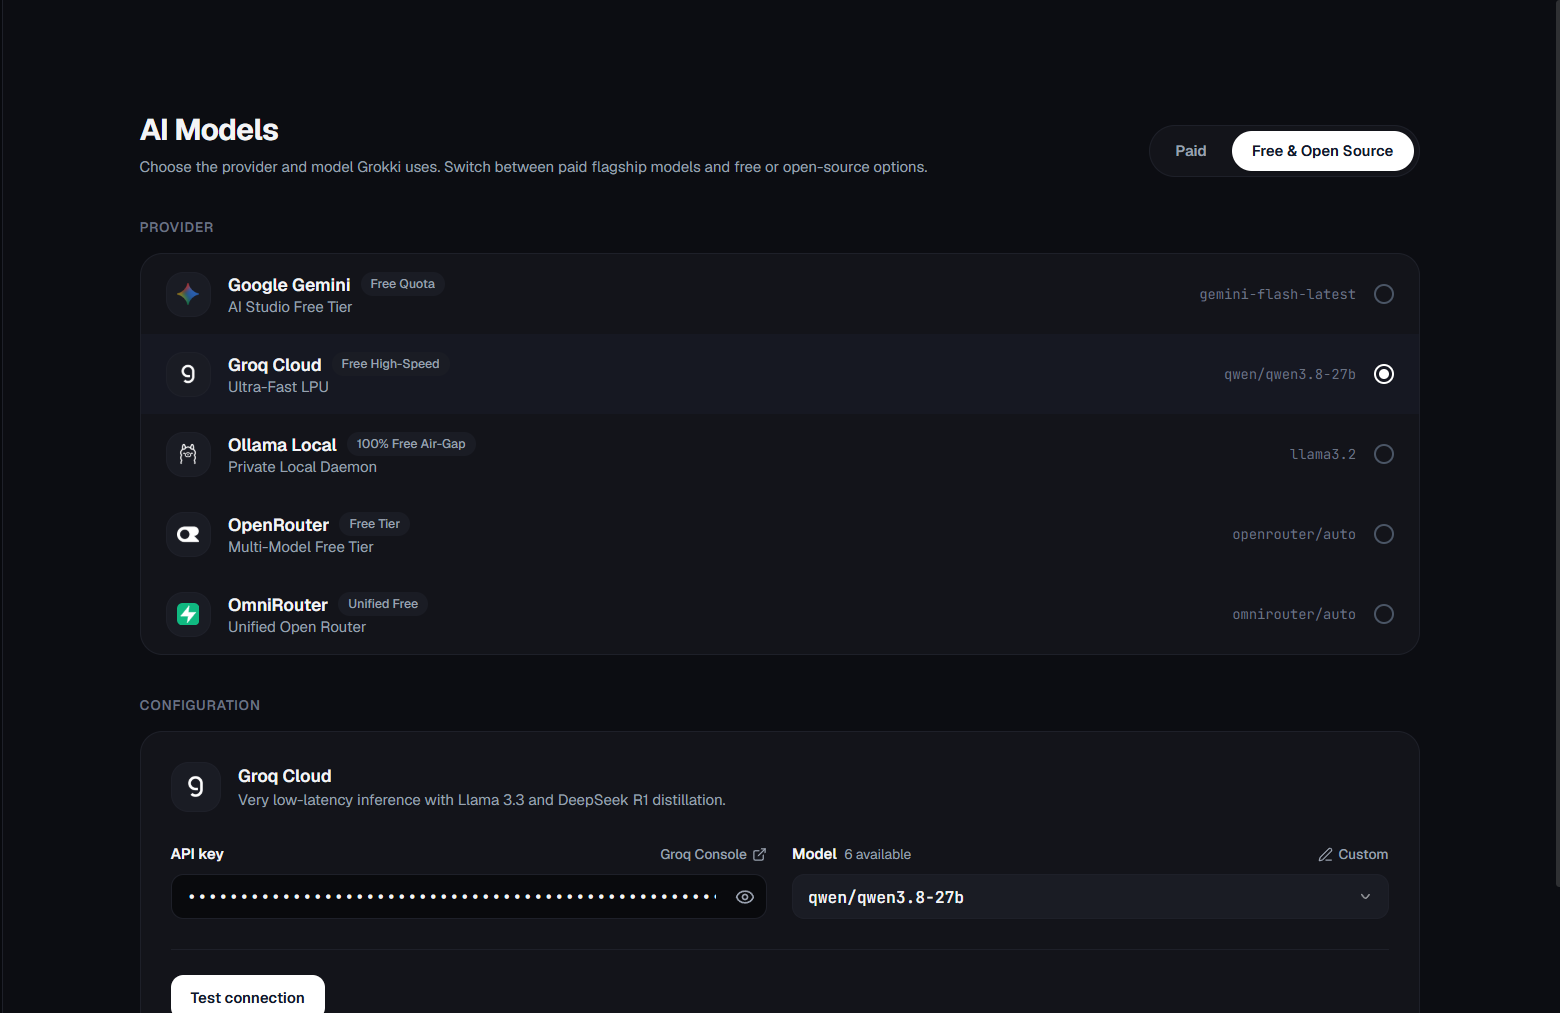
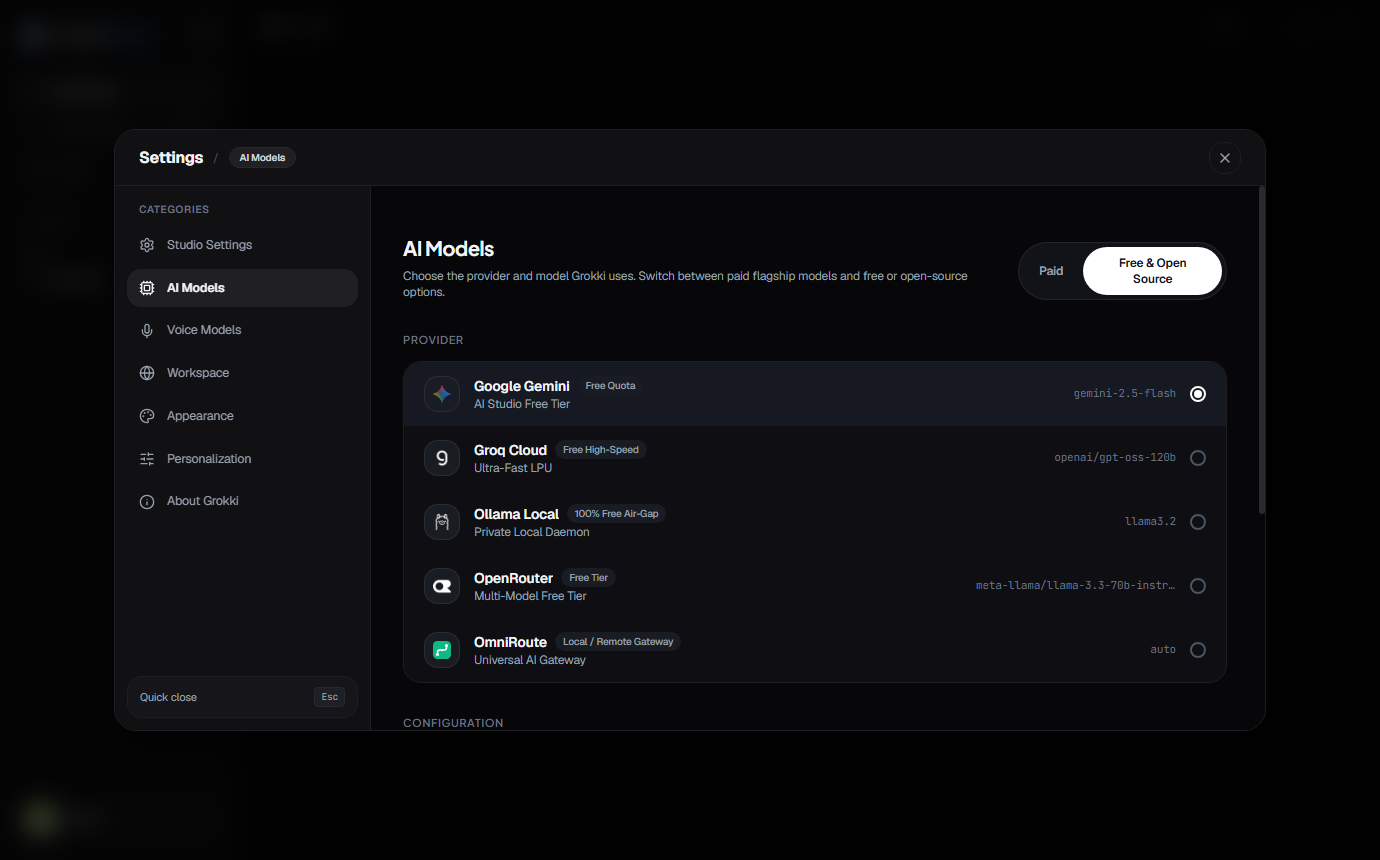
New Changes

diff --git a/README.md b/README.md
@@ -14,7 +14,7 @@
   </p>
 
   <h3>Autonomous AI desktop companion living in an Apple-style Dynamic Island & Top Notch.</h3>
-  <p>Real-time desktop vision, physical OS mouse and keyboard automation, 70+ native Windows tools, and hybrid local/cloud intelligence.<br />Summoned instantly anywhere with Alt+Q or top-edge hover.</p>
+  <p>Real-time desktop vision, physical OS mouse & keyboard automation, 70+ native Windows tools, and hybrid local/cloud intelligence.<br />Summoned instantly anywhere with <code>Alt+Q</code> or top-edge hover.</p>
 
   <p>
     <a href="#features"><strong>Features</strong></a> ·
@@ -35,19 +35,20 @@
 
 ## Overview
 
-Grokki is an autonomous Windows desktop agent designed to live directly at the top of your screen inside a glass Dynamic Island and Top Notch. Rather than existing as an isolated browser chatbot, Grokki has direct physical agency over your operating system: he sees your displays with low-token vision, executes multi-step plans across native applications, and physically drives your mouse and keyboard.
+Grokki is an autonomous Windows desktop agent designed to live directly at the top of your screen inside a glass Dynamic Island and Top Notch. Rather than existing as an isolated browser chatbot, Grokki has direct physical agency over your operating system: he sees your displays with low-token vision, executes multi-step plans across native applications, and physically drives your mouse, keyboard, and background processes.
 
 | Capability | Scope | What it does |
 | :--- | ---: | :--- |
-| **Native UI Automation** | Vercel agent-desktop | Zero-token accessibility tree snapshots, background clicking & typing with stable @ref IDs |
+| **Native UI Automation** | Vercel agent-desktop | Zero-token accessibility tree snapshots, background clicking & typing with stable `@ref` IDs |
 | **System & Desktop Agency** | 20+ tools | Mouse tracking, keyboard injection, audio, window management, screen capture, hardware power |
-| **Hitodama Control Center** | Top Notch & Mobile | Zero-shadow capsule tabs: Volume bar, Studio (Now-Playing Art), Stats, and Power tiles |
-| **P2P Pocket Grokki Mobile** | Local LAN | Zero-cloud QR pairing, summon hopping, cross-device envelope beam, attendance sync |
-| **Workspace Integrations** | 22 tools | Google Workspace, Notion databases, local Obsidian vaults, GitHub CLI |
+| **Hitodama Control Center** | Top Notch & Mobile | Zero-shadow capsule tabs: Controls, Today, Studio (Now-Playing Art), Apps, Games, Wallpaper, Themes, Clipboard, and Stats |
+| **P2P Pocket Grokki Mobile** | Local LAN | Zero-cloud QR pairing, summon hopping, cross-device envelope file beam, attendance sync |
+| **Workspace Integrations** | 25 tools | Google Workspace, Notion databases, local Obsidian vaults, GitHub CLI, and WhatsApp Gateway |
 | **Productivity & Code** | 15 tools | Artifact sandbox canvas, VS Code bug diagnosis, file parsing, document authoring |
-| **Media & Audio** | 10 tools | Spotify, YouTube Music, Apple Music controls, playlist search, lecture synthesis |
+| **Media & Audio** | 12 tools | Spotify, YouTube Music, Apple Music controls, playlist search, lecture synthesis |
 | **Games Hub** | Local Scan | Auto-discovers installed Steam/Epic/Xbox games with free cover art fetching |
-| **Multi-Brain & Grounding** | 9 engines | Dual-battle comparative runs, consensus synthesis, live web grounding |
+| **Multi-Brain & Grounding** | 10 engines | Dual-battle comparative runs, consensus synthesis, live web grounding, local Ollama air-gap |
+| **Voice & Speech Engine** | 4 providers | ElevenLabs, VoiceStudio, Edge TTS, and Grokki Voice with real-time waveform dynamic island |
 
 ---
 
@@ -63,15 +64,20 @@ Grokki natively embeds Vercel's open-source `agent-desktop` engine for determini
 ### Hitodama Top Notch Control Center
 Access essential operating system controls instantly by hovering near the top notch or tapping the island:
 * **Zero-Shadow Capsule Architecture**: Engineered with a strict zero-shadow, high-contrast frosted glass design system that dynamically follows your active theme palette.
-* **4-Tab Unified Control Hub**:
-  * **Controls**: Live OS volume bar capsule with percentage thumb, preset buttons (`25%`, `50%`, `75%`, `MAX`), and quick tiles (`Lock PC`, `Sleep`, `Screenshot`, `Mute Mic`).
+* **9-Tab Unified Control Hub**:
+  * **Controls**: Live OS volume bar capsule with percentage thumb, preset buttons (`25%`, `50%`, `75%`, `MAX`), and quick tiles (`Wi-Fi`, `Bluetooth`, `Audio Output`, `Night Light`, `Dark Mode`, `Speech to Text`).
+  * **Today**: Agenda timeline, upcoming calendar appointments, and quick tasks.
   * **Studio**: Live Windows Media playback detection displaying album art covers, track title, artist, playback status badge, and transport controls.
+  * **Apps**: Fast application launcher categorized by work, code, media, and tools.
+  * **Games**: Installed PC games launcher with auto-fetched poster art.
+  * **Wallpaper**: Instant dynamic wallpaper switcher with blur presets.
+  * **Themes**: Live theme palette selector with instant desktop & mobile sync.
+  * **Clipboard**: Persistent clipboard history with image thumbnail previews, direct one-click paste into active windows, pin/unpin toggles, and deletion.
   * **Stats**: Real-time hardware telemetry: CPU load %, processor model, RAM usage (`used / total GB`), and host system uptime.
-  * **Power**: Clean OS action cards for Lock Screen, Sleep Mode, Sign Out, Restart PC, Shut Down, and Cancel Power.
 
 ### Peer-to-Peer Pocket Grokki Mobile (LAN Companion)
 Bring your autonomous desktop assistant directly to your mobile phone over your local Wi-Fi without third-party servers, cloud relays, or exposed ports:
-* **Hitodama Mobile Overhaul**: Pocket Grokki now renders the full Hitodama Control Center right on your phone (`http://<LAN_IP>:8765`), equipped with `Plus Jakarta Sans`, `JetBrains Mono`, and FontAwesome 6 vector icons.
+* **Hitodama Mobile Overhaul**: Pocket Grokki renders the full Hitodama Control Center right on your phone (`http://<LAN_IP>:8765`), equipped with `Plus Jakarta Sans`, `JetBrains Mono`, and FontAwesome 6 vector icons.
 * **Zero-Cloud P2P LAN Pairing**: Pair your smartphone with your Windows PC in seconds using a dynamic cryptographic QR code or single-click local discovery. All communication is strictly local to your private network.
 * **Cross-Device Summon Hopping**: Teleport Grokki seamlessly between your desktop screen and your mobile device. Summon Grokki directly onto your phone screen or shoot him back onto your Windows desktop Dynamic Island with fluid portal physics.
 * **Animated Envelope File Transfer**: Drag and drop documents, images, or code on desktop into Grokki to package them into an animated envelope and beam them directly to your phone (and vice-versa) for instant offline download and opening.
@@ -82,50 +88,35 @@ Bring your autonomous desktop assistant directly to your mobile phone over your 
 Personalize Grokki Studio, the Dynamic Island, Top Notch, and Pocket Grokki with synchronized theme palettes:
 * **8 Curated Palettes**: `sunset`, `grokki-blue`, `cream`, `jungle`, `sakura`, `cyber`, `arctic`, and `crimson`.
 * **Horizontal Theme Carousel**: Smooth horizontal drag-and-scroll selector in the Appearance settings.
-* **Independent Light / Dark Mode**: Dedicated "None" option allows standard Light and Dark modes without color saturation locks.
+* **Independent Light / Dark Mode**: Dedicated dual-mode support across all modals, search dialogs, and popover menus.
 * **Instant Broadcast**: Switching themes in Grokki Studio broadcasts real-time color updates across the desktop overlay and connected mobile companions.
 
-### Installed Games Hub & Poster Fetcher
-* **Automatic Game Detection**: Automatically scans your Windows PC for installed games across Steam libraries, Epic Games Launcher, Xbox / Microsoft Store apps, and custom game directories.
-* **Live Cover Artwork**: Fetches game posters and capsule art automatically from free game metadata APIs and caches them locally for fast, offline display.
-* **1-Click Launch**: Launch any installed game directly from the Grokki Studio interface.
+### Conversation Timeline & Sleek Recents Divider
+* **Date-Segmented Recents**: Chat history is organized chronologically under `Today`, `Yesterday`, `Previous 7 Days`, and `Older`.
+* **Sleek Visual Dividers**: Beautiful curved branch lines link individual conversation cards to their date clusters.
+* **Fast Keyboard Search (`Ctrl+K`)**: Modal dialog with full-text search, keyboard navigation (`↑`/`↓` and `Enter`), and dual light/dark aesthetics.
+* **Chat Management**: Pin favorite threads to the top, rename conversations inline, and delete old chats with zero clutter.
 
-### Genuine Desktop Blur & Dynamic Island
-Windows cannot natively blur third-party desktop windows behind transparent frameless Electron surfaces. Grokki implements a dedicated GPU-accelerated capture pipeline:
-* On summon (`Alt + Q`), the system snaps your desktop background in the background.
-* Applies a hardware-accelerated Apple-spec Gaussian blur layer (`blur(38px) brightness(0.55) saturate(190%)`).
-* Your wallpaper, active code editor, terminal, and browser blur dynamically behind the island in real time.
-* Dismiss by clicking anywhere outside the interface.
-
-### Physical Mouse and Keyboard Automation
-* Moves the actual Windows OS mouse cursor with smooth easing trajectories.
-* Executes left-clicks, double-clicks, right-clicks, and keystrokes directly into active applications (Notepad, Word, File Explorer, Terminal).
-* Includes safe boundaries and emergency abort shortcut (`Esc`).
-
-### Ultra-Low Token Screen Vision
-* Captures active displays and downscales frames for multimodal models.
-* Cost per screen scan: ~250 tokens via Gemini Flash Vision.
-* Diagnoses compile errors in VS Code, inspects software installation wizards, and reads documents on screen without manual uploads.
-
-### Interactive Artifacts & Code Canvas
-* Sandboxed preview drawer (`w-[48%]` split pane) for live rendering of HTML, CSS, SVG, JavaScript, and Markdown.
-* Integrated syntax-highlighted code editor with line numbers, 1-click clipboard copy, and direct save to workspace files.
-* Adaptive layout that toggles between split view and full workspace mode.
+### AI Brain Switcher & Local Ollama Air-Gap
+* **Local Ollama Verification**: Automatically inspects local Windows binary paths (`%LOCALAPPDATA%\Programs\Ollama`, `Program Files`, and `where.exe ollama`) as well as the active daemon endpoint (`127.0.0.1:11434`).
+* **1-Click Download Button**: If Ollama is not installed, an actionable card with a direct download button is rendered automatically.
+* **Daemon Launcher**: If Ollama is installed but stopped, start it directly from the UI with a single click.
+* **Multi-Provider Switcher**: Effortlessly switch between free tiers (Gemini Free, Groq Cloud, OpenRouter) and flagship powerhouses (OpenAI, Claude, xAI Grok, DeepSeek).
 
 ### Multi-Brain Dual Battle & Consensus
 * Dispatches any prompt concurrently to two separate AI brains (e.g. Gemini Flash vs. Groq Qwen/Llama or local Ollama).
 * Comparative side-by-side card grid showing model name, individual latency in milliseconds, copy buttons, and winner selection.
 * Interactive consensus engine cross-examines both model outputs, filters hallucinations, and synthesizes a unified verdict.
 
-### Deep Workspace Project Context (`@file` & `@folder`)
-* Cursor-style inline context suggestion triggered by typing `@` anywhere in the chat input.
-* Indexes local project files with fuzzy matching, file size indicators, and file type icons.
-* Mentioning `@folder` recursively parses directories (filtering `node_modules`, `.git`, and build caches) to bundle source code directly into model context.
+### Installed Games Hub & Poster Fetcher
+* **Automatic Game Detection**: Automatically scans your Windows PC for installed games across Steam libraries, Epic Games Launcher, Xbox / Microsoft Store apps, and custom game directories.
+* **Live Cover Artwork**: Fetches game posters and capsule art automatically from free game metadata APIs and caches them locally for fast, offline display.
+* **1-Click Launch**: Launch any installed game directly from the Grokki Studio interface or Top Notch Games tab.
 
-### Live Web Grounding & Citations
-* One-click deep search toggle formulated for real-time web retrieval.
-* Queries live search engines and injects relevant source snippets before model generation.
-* Displays an expandable Perplexity-style source accordion with domain badges, favicon previews, and hoverable inline citation tooltips (`[1]`, `[2]`).
+### High-Fidelity Voice Models
+* **Multi-Voice Architecture**: Integrates ElevenLabs, local VoiceStudio servers, edge TTS, and Grokki Voice.
+* **Custom Speed & Previews**: Adjust speech playback speed from `0.5x` to `2.0x` with instant audio preview testing.
+* **Voice-to-Text Dynamic Island**: Floating speech-to-text capsule (`dictation_pill.html`) with live sound wave visuals and real-time transcription.
 
 ---
 
@@ -141,9 +132,10 @@ Grokki features a built-in provider switcher supporting both paid frontier flags
 | | **DeepSeek** | `deepseek-chat`, `deepseek-reasoner` | Specialized STEM and code reasoning architecture |
 | | **Alibaba Qwen** | `qwen-max`, `qwen-plus` | Multilingual and mathematical problem solving |
 | **Free / Open-Source** | **Groq Cloud** | `qwen/qwen3.8-27b`, `openai/gpt-oss-120b` | 500+ tokens/second inference speed on free API tier |
-| | **Google Gemini Free** | `gemini-flash-latest`, `gemini-3.1-flash-lite` | Free tier quota for vision and daily desktop tasks |
-| | **Ollama Local** | `llama3.2`, `deepseek-r1` | 100% offline, air-gapped local inference |
+| | **Google Gemini Free** | `gemini-flash-latest`, `gemini-2.5-flash` | Free tier quota for vision and daily desktop tasks |
+| | **Ollama Local** | `llama3.2`, `deepseek-r1` | 100% offline, air-gapped local inference with 1-click download |
 | | **OpenRouter** | `openrouter/auto`, community free tier | Aggregated model catalog with automatic failover |
+| | **OmniRoute** | `auto` | Universal unified local and remote model gateway |
 
 ---
 
@@ -159,20 +151,21 @@ Grokki Agent Runtime
 │   └── App and window lifecycle control (`desktop_app_control`)
 │
 ├── Hitodama Control Center (Desktop Notch & Pocket Companion)
-│   ├── Zero-shadow capsule tabs (Controls, Studio, Stats, Power)
+│   ├── Zero-shadow capsule tabs (Controls, Today, Studio, Apps, Games, Wallpaper, Themes, Clipboard, Stats)
 │   ├── Real-time volume slider capsule with preset levels
 │   ├── Live Windows Media now-playing album art & playback transport
+│   ├── Persistent clipboard history with image thumbnail previews & 1-click paste
 │   ├── System performance telemetry (CPU load, RAM used/total, Host uptime)
 │   └── Safe Windows power controls (Lock, Sleep, Sign out, Restart, Shutdown)
 │
 ├── Peer-to-Peer Mobile Ecosystem (Pocket Grokki)
-│   ├── Dynamic QR-code device pairing & local encrypted LAN discovery
+│   ├── Dynamic QR-code device pairing & local encrypted LAN discovery (port 8765)
 │   ├── Bidirectional device-to-device summon hopping (PC ⟷ Mobile)
 │   ├── P2P Envelope File Beam & instant cross-device payload delivery
 │   └── Mobile University ERP portal & attendance tracking
 │
 ├── System & OS Controls
-│   ├── Mouse tracking, double-clicks, right-clicks, and cursor easing
+│   ├── Mouse tracking, double-clicks, right-clicks, and cursor easing trajectories
 │   ├── Window management (focus, minimize, maximize, snap, close)
 │   ├── Native audio volume, mute, and display brightness control
 │   └── 1-Click Downloads and Desktop auto-organization
@@ -193,18 +186,17 @@ Grokki Agent Runtime
 │   ├── Google Workspace: Gmail, Calendar, Drive, Docs, Sheets, Tasks
 │   ├── Notion Workspace: Pages, database creation, query, notes
 │   ├── Obsidian Vault: Local note creation, bi-directional linking, search
-│   └── WhatsApp Gateway: Self-hosted OpenWA API integration (direct background messaging, media share, chat history) + Desktop bridge fallback
+│   └── WhatsApp Gateway: Self-hosted OpenWA API integration & background messaging
 │
 ├── Media & Streaming
 │   ├── Spotify, YouTube Music, Apple Music, and Amazon Music playback
 │   ├── Media hardware keys (Next, Prev, Play/Pause, Stop)
 │   └── YouTube video search, playlist manager, and lecture summarizer
 │
-└── Academic & Research Engine
-    ├── 1-Page Exam Cheat Sheet synthesizer
-    ├── Probable Exam Questions & Model Answer generator
-    ├── Feynman Technique (ELI5) concept explainer
-    └── ArXiv research paper search and automatic PDF downloader
+└── Voice & Speech Synthesis
+    ├── ElevenLabs neural speech engine
+    ├── Local VoiceStudio server integration with health checking
+    └── Edge TTS / Grokki Voice with adjustable speed & live preview
 ```
 
 ---
@@ -215,42 +207,52 @@ Grokki Agent Runtime
   <table>
     <tr>
       <td width="50%" align="center">
-        <img src="assets/screenshots/Pocket Grokki Mobile.png" alt="Peer-to-Peer Pocket Grokki Mobile Companion" width="100%"/>
-        <br/><sub><b>Pocket Grokki Mobile (Hitodama Control Center, Now Playing & P2P Hop)</b></sub>
+        <img src="assets/screenshots/Grokki Studio.png" alt="Grokki Studio Chat & Date-Grouped Timeline" width="100%"/>
+        <br/><sub><b>Grokki Studio Chat Workspace (Date-Grouped Recents, Floating Prompt & Tools)</b></sub>
       </td>
       <td width="50%" align="center">
-        <img src="assets/screenshots/Hitodama Control Center.png" alt="Hitodama Top Notch Control Center" width="100%"/>
-        <br/><sub><b>Hitodama Top Notch Control Center (Controls, Studio, Stats & Power)</b></sub>
+        <img src="assets/screenshots/Search Chats.png" alt="Fast Search Chats Modal (Ctrl+K)" width="100%"/>
+        <br/><sub><b>Fast Search Dialog (<code>Ctrl+K</code> with Keyboard Navigation & Dual Theme)</b></sub>
       </td>
     </tr>
     <tr>
       <td width="50%" align="center">
-        <img src="assets/screenshots/Grokki Studio.png" alt="Central Studio Workspace" width="100%"/>
-        <br/><sub><b>Grokki Studio Central Workspace & Games Hub</b></sub>
+        <img src="assets/screenshots/Hitodama Control Center.png" alt="Hitodama Top Notch Control Center" width="100%"/>
+        <br/><sub><b>Hitodama Top Notch Control Center (Controls, Studio, Clipboard, Stats & Power)</b></sub>
+      </td>
+      <td width="50%" align="center">
+        <img src="assets/screenshots/Dynamic Island.png" alt="Dynamic Island Desktop Companion" width="100%"/>
+        <br/><sub><b>Dynamic Island Speech-to-Text & Sound Wave Capsule (<code>Ctrl+Space</code>)</b></sub>
+      </td>
+    </tr>
+    <tr>
+      <td width="50%" align="center">
+        <img src="assets/screenshots/Pocket Grokki Mobile.png" alt="Peer-to-Peer Pocket Grokki Mobile Companion" width="100%"/>
+        <br/><sub><b>Pocket Grokki Mobile Companion (Hitodama Mobile, Summon Hopping & P2P Beam)</b></sub>
+      </td>
+      <td width="50%" align="center">
+        <img src="assets/screenshots/Brain Switcher.png" alt="AI Brain Provider Switcher" width="100%"/>
+        <br/><sub><b>AI Brain Multi-Provider Switcher (Ollama Local Air-Gap, Groq & Flagships)</b></sub>
+      </td>
+    </tr>
+    <tr>
+      <td width="50%" align="center">
+        <img src="assets/screenshots/Dual Brain.png" alt="Multi-Brain Dual Battle & Consensus" width="100%"/>
+        <br/><sub><b>Multi-Brain Dual-Battle Mode (Side-by-Side Latency Tracking & Consensus)</b></sub>
       </td>
       <td width="50%" align="center">
         <img src="assets/screenshots/Grokki Studio Themes.png" alt="Theme Carousel & Appearance Engine" width="100%"/>
-        <br/><sub><b>Theme Carousel & Color Palette Engine</b></sub>
+        <br/><sub><b>Appearance Engine (8-Theme Carousel & Synchronized Color Palettes)</b></sub>
       </td>
     </tr>
     <tr>
-      <td width="50%" align="center">
-        <img src="assets/screenshots/Dynamic Island.png" alt="Dynamic Island Desktop Companion" width="100%"/>
-        <br/><sub><b>Obsidian Dynamic Island Capsule (<code>Alt+Q</code>)</b></sub>
-      </td>
-      <td width="50%" align="center">
-        <img src="assets/screenshots/Dual Brain.png" alt="Multi-Brain Dual Battle & Consensus" width="100%"/>
-        <br/><sub><b>Multi-Brain Dual-Battle Mode with Latency Tracking & Consensus</b></sub>
-      </td>
-    </tr>
-    <tr>
-      <td width="50%" align="center">
-        <img src="assets/screenshots/Brain Switcher.png" alt="AI Brain Provider Switcher" width="100%"/>
-        <br/><sub><b>AI Brain Multi-Provider Switcher (Paid Flagships & Free Engines)</b></sub>
-      </td>
       <td width="50%" align="center">
         <img src="assets/screenshots/Workspace.png" alt="Workspace Ecosystem Hub" width="100%"/>
-        <br/><sub><b>Workspace Ecosystem Hub (Google, Notion, Obsidian, GitHub)</b></sub>
+        <br/><sub><b>Workspace Ecosystem (Google Workspace, Notion, Obsidian, GitHub & WhatsApp)</b></sub>
+      </td>
+      <td width="50%" align="center">
+        <img src="assets/screenshots/Voice Models.png" alt="Voice Models & Neural Speech Synthesis" width="100%"/>
+        <br/><sub><b>Voice Models Engine (ElevenLabs, VoiceStudio, Edge TTS & Speed Tuning)</b></sub>
       </td>
     </tr>
   </table>
@@ -282,7 +284,9 @@ npm run dev
 ### Summoning Grokki
 - Press **`Alt + Q`** from any application to open the Dynamic Island.
 - Hover your mouse at the top-center edge of your screen to drop down the **Hitodama Notch**.
-- Say **`"Hey Grokki"`** to trigger the background wake word detector.
+- Press **`Ctrl + Space`** to trigger the floating Speech-to-Text dynamic island.
+- Press **`Ctrl + K`** inside Grokki Studio to quickly search across past conversations.
+- Press **`Ctrl + ,`** to open the Central Settings & Brain Switcher modal.
 - Open **`http://<LAN_IP>:8765`** from your smartphone to launch **Pocket Grokki Mobile**.
 
 ---
